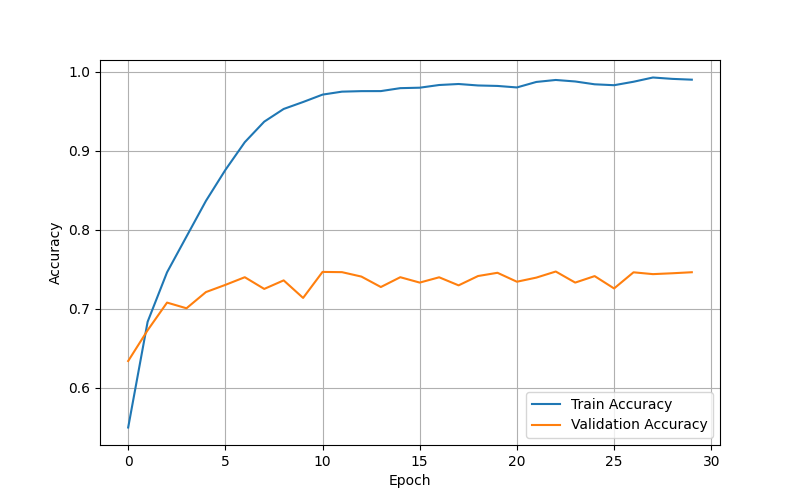
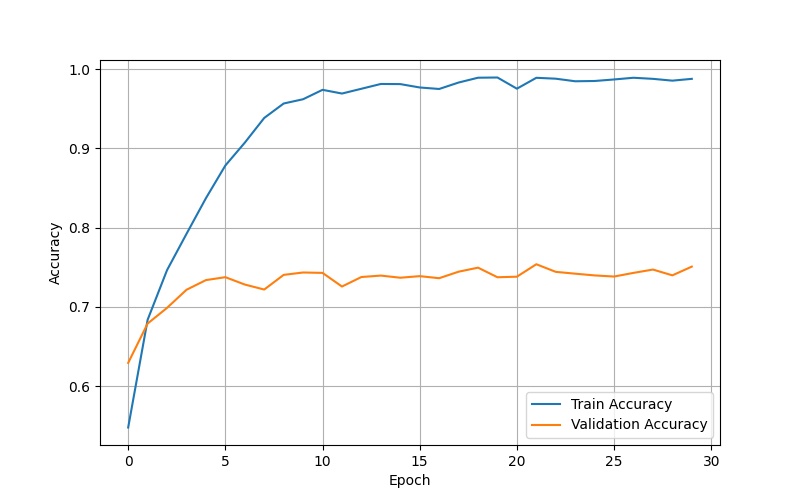
New experiment wirh ResNet CBAM

diff --git a/README.md b/README.md
@@ -163,7 +163,7 @@ results/csv/
 | GoogLeNet | — | 0.76 | 74.7% |
 | ResNet | — | 0.84 | 71% |
 | ResNet | SE | 0.83 | 72.8% |
-| ResNet | CBAM | 0.85 | 70.8% |
+| ResNet | CBAM | 0.84 | 73.1% |
 
 ## Training Curves
 